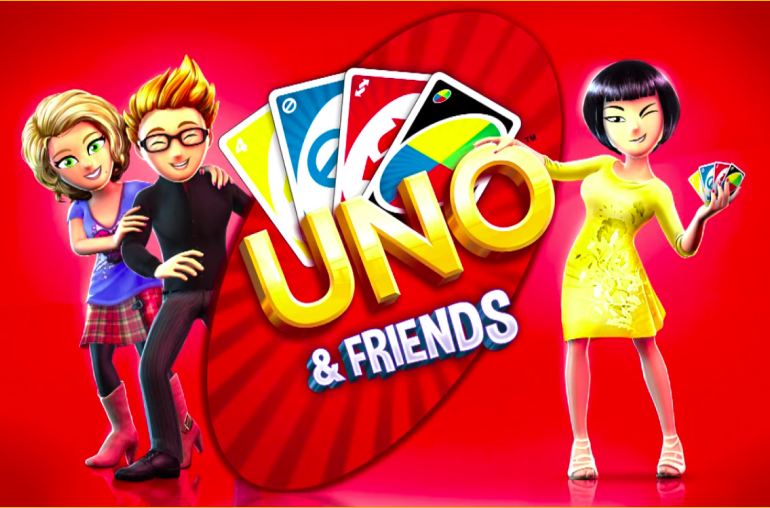
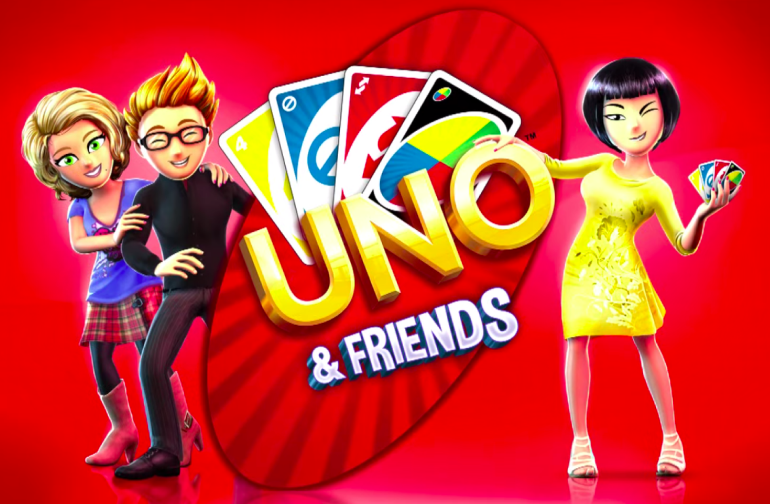
Fixing lego background blend mode

diff --git a/pages/tlp.tsx b/pages/tlp.tsx
@@ -25,7 +25,7 @@ const Styledtlp = styled.div<StyledtlpProps>`
    color: ${({ theme }: ThemeContainer) => theme.VARIABLES.COLORS.PRIMARY.BASE};
 
    section.upper-section {
-      p.description {
+      .description {
          flex-basis: 33%;
          font-size: ${({ theme }: ThemeContainer) => theme.VARIABLES.FONT_SIZES.S};
       }
@@ -64,7 +64,7 @@ const Styledtlp = styled.div<StyledtlpProps>`
       background-color: ${({ theme }: ThemeContainer) =>
          `${theme.VARIABLES.COLORS.SECONDARY.DARK}C0`};
       margin-bottom: 0;
-      padding: ${({ theme }: ThemeContainer) => theme.VARIABLES.SPACING.M} 0;
+      padding: ${({ theme }: ThemeContainer) => theme.VARIABLES.SPACING.XL} 0;
 
       section.lower-info {
          ${MaxScreenConstraints}
@@ -149,8 +149,8 @@ const tlp: React.FC = ({}) => {
                   Korda. It began small and found fast success receiving thousands of stories and
                   counting. Marissa wished to move the site to have more control over its
                   development and to fix several quality of life issues. The original site was built
-                  using plain old HTML, JS, and CSS so I took on the task of rebuilding the original
-                  site from the ground up using modern technologies.
+                  using plain old HTML, JS, and CSS so I took on the task of rebuilding the site
+                  from the ground up using modern technologies.
                </p>
                <article className="external-links">
                   <ExternalLinkButton

diff --git a/themes/UnoTheme/UnoThemeComponents.ts b/themes/UnoTheme/UnoThemeComponents.ts
@@ -5,9 +5,10 @@ export default (VARIABLES: Variables): Components => {
    const { COLORS } = VARIABLES;
 
    const PAGE: Page = {
-      BACKGROUND: `url("public/images/uno/uno-background.png")`,
-      OVERLAYED_BACKGROUND: `linear-gradient(180deg, #BE0245 0%, #F03E17 100%)`
+      BACKGROUND: `linear-gradient(180deg, #BE0245 0%, #F03E17 100%)`,
+      OVERLAYED_BACKGROUND: ``
    };
+   //url("public/images/uno/uno-background.png")
 
    const BUTTON: Button = {
       FONT_COLOR: { DEFAULT: COLORS.SECONDARY.BASE, ALTERNATE: COLORS.SECONDARY.BASE },

diff --git a/themes/LegoTheme/LegoThemeComponents.ts b/themes/LegoTheme/LegoThemeComponents.ts
@@ -5,8 +5,8 @@ export default (VARIABLES: Variables): Components => {
    const { COLORS } = VARIABLES;
 
    const PAGE: Page = {
-      BACKGROUND: `url("public/images/lego/lego-background.png")`,
-      OVERLAYED_BACKGROUND: `linear-gradient(180deg, #481180 0%, #680A60 100%)`
+      BACKGROUND: `linear-gradient(180deg, #481180 0%, #680A60 100%)`,
+      OVERLAYED_BACKGROUND: `url("public/images/lego/lego-background.png")`
    };
 
    const BUTTON: Button = {

diff --git a/styles/OverlayedBackgroundStyle.tsx b/styles/OverlayedBackgroundStyle.tsx
@@ -7,8 +7,9 @@ const OverlayedBackgroundStyle = css`
    right: 0;
    bottom: 0;
    left: 0;
-   opacity: 0.7;
+   opacity: 1;
    pointer-events: none;
+   mix-blend-mode: multiply;
    background: ${({ theme }: ThemeContainer) => theme.COMPONENTS.PAGE.OVERLAYED_BACKGROUND};
    z-index: ${({ theme }: ThemeContainer) => theme.VARIABLES.LAYERS.BACKGROUND};
 `;

diff --git a/components/Section.tsx b/components/Section.tsx
@@ -10,7 +10,7 @@ const StyledSection = styled.section<StyledSectionProps>`
    position: relative;
    width: 100%;
 
-   margin: ${({ theme }: ThemeContainer) => theme.VARIABLES.SPACING.M} 0;
+   margin: ${({ theme }: ThemeContainer) => theme.VARIABLES.SPACING.XL} 0;
 `;
 
 interface SectionProps extends ComponentBaseProps {}

diff --git a/components/basic/List.tsx b/components/basic/List.tsx
@@ -20,6 +20,7 @@ const StyledList = styled.ul<StyledListProps>`
 
    li.list-item {
       text-indent: -1em;
+      font-size: ${({ theme }: ThemeContainer) => theme.VARIABLES.FONT_SIZES.S};
 
       @media (min-width: ${({ theme }: ThemeContainer) => theme.VARIABLES.BREAK_POINTS.MEDIUM}) {
          padding-left: 1em;

diff --git a/themes/BaseTheme/BaseThemeVariables.ts b/themes/BaseTheme/BaseThemeVariables.ts
@@ -16,7 +16,7 @@ export const BREAK_POINTS: BreakPoints = {
 
 export const FONT_SIZES: FontSizes = {
    XS: "0.5rem",
-   S: "0.8rem",
+   S: "0.82rem",
    M: "1rem",
    ML: "1.15rem",
    L: "1.2rem",

diff --git a/pages/lego.tsx b/pages/lego.tsx
@@ -26,7 +26,6 @@ const Styledtlp = styled.main<StyledtlpProps>`
 
    .overlayed-background {
       ${OverlayedBackgroundStyle}
-      mix-blend-mode: multiply;
    }
 
    .page-main {

diff --git a/components/GlobalStyles.tsx b/components/GlobalStyles.tsx
@@ -44,7 +44,6 @@ const GlobalStyles = createGlobalStyle`
 	}
 
 	p {
-		font-size: 18px;
 		margin: 0;
 	}
 
